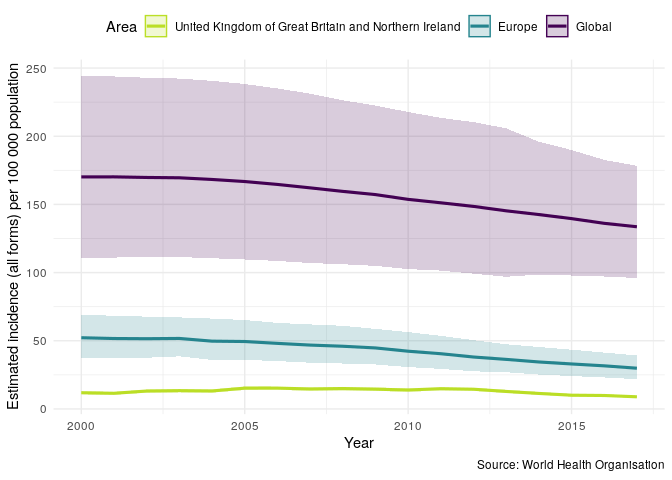
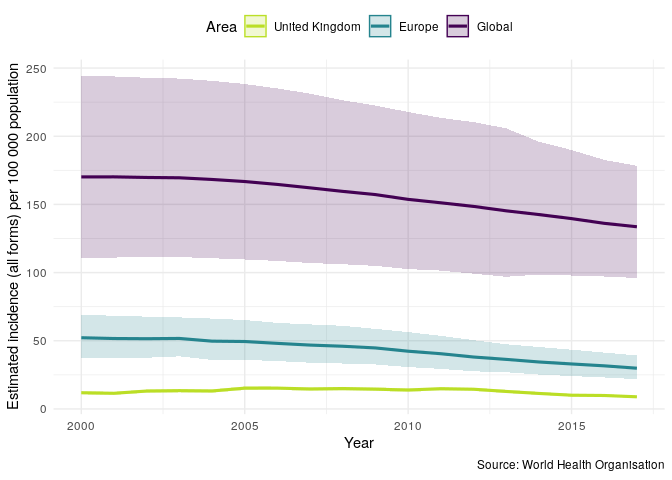
refreshed readme

Changed region(s): [[0.1562, 0.0312, 0.9062, 0.0938]]

diff --git a/README.md b/README.md
@@ -73,12 +73,12 @@ getTBinR::map_tb_burden(metric = "e_inc_100k")
 #>   c.quosures     rlang
 #>   print.quosures rlang
 #> Downloading data from: https://extranet.who.int/tme/generateCSV.asp?ds=estimates
-#> Saving data to: /tmp/RtmpGMpXAj/TB_burden.rds
+#> Saving data to: /tmp/RtmpWgNPW6/TB_burden.rds
 #> Downloading data from: https://extranet.who.int/tme/generateCSV.asp?ds=mdr_rr_estimates
-#> Saving data to: /tmp/RtmpGMpXAj/MDR_TB.rds
+#> Saving data to: /tmp/RtmpWgNPW6/MDR_TB.rds
 #> Joining TB burden data and MDR TB data.
 #> Downloading data from: https://extranet.who.int/tme/generateCSV.asp?ds=dictionary
-#> Saving data to: /tmp/RtmpGMpXAj/TB_data_dict.rds
+#> Saving data to: /tmp/RtmpWgNPW6/TB_data_dict.rds
 #> 1 results found for your variable search for e_inc_100k
 ```
 
@@ -92,10 +92,10 @@ getTBinR::plot_tb_burden_overview(metric = "e_inc_100k",
                                   countries = "United Kingdom",
                                   compare_to_region = TRUE,
                                   interactive = FALSE)
-#> Loading data from: /tmp/RtmpGMpXAj/TB_burden.rds
-#> Loading data from: /tmp/RtmpGMpXAj/MDR_TB.rds
+#> Loading data from: /tmp/RtmpWgNPW6/TB_burden.rds
+#> Loading data from: /tmp/RtmpWgNPW6/MDR_TB.rds
 #> Joining TB burden data and MDR TB data.
-#> Loading data from: /tmp/RtmpGMpXAj/TB_data_dict.rds
+#> Loading data from: /tmp/RtmpWgNPW6/TB_data_dict.rds
 #> 1 results found for your variable search for e_inc_100k
 ```
 
@@ -110,10 +110,10 @@ getTBinR::plot_tb_burden_overview(metric = "e_inc_100k",
                                   compare_to_region = TRUE,
                                   annual_change = TRUE,
                                   interactive = FALSE)
-#> Loading data from: /tmp/RtmpGMpXAj/TB_burden.rds
-#> Loading data from: /tmp/RtmpGMpXAj/MDR_TB.rds
+#> Loading data from: /tmp/RtmpWgNPW6/TB_burden.rds
+#> Loading data from: /tmp/RtmpWgNPW6/MDR_TB.rds
 #> Joining TB burden data and MDR TB data.
-#> Loading data from: /tmp/RtmpGMpXAj/TB_data_dict.rds
+#> Loading data from: /tmp/RtmpWgNPW6/TB_data_dict.rds
 #> 1 results found for your variable search for e_inc_100k
 ```
 
@@ -131,23 +131,23 @@ getTBinR::plot_tb_burden_summary(metric = "e_inc_num",
                                  compare_to_region = TRUE,
                                  compare_to_world = TRUE,
                                  interactive = FALSE)
-#> Loading data from: /tmp/RtmpGMpXAj/TB_data_dict.rds
+#> Loading data from: /tmp/RtmpWgNPW6/TB_data_dict.rds
 #> 1 results found for your variable search for e_inc_100k
 #> Extracting data for specified countries
-#> Loading data from: /tmp/RtmpGMpXAj/TB_burden.rds
-#> Loading data from: /tmp/RtmpGMpXAj/MDR_TB.rds
+#> Loading data from: /tmp/RtmpWgNPW6/TB_burden.rds
+#> Loading data from: /tmp/RtmpWgNPW6/MDR_TB.rds
 #> Joining TB burden data and MDR TB data.
-#> Loading data from: /tmp/RtmpGMpXAj/TB_data_dict.rds
+#> Loading data from: /tmp/RtmpWgNPW6/TB_data_dict.rds
 #> 1 results found for your variable search for e_inc_num
-#> Loading data from: /tmp/RtmpGMpXAj/TB_burden.rds
-#> Loading data from: /tmp/RtmpGMpXAj/MDR_TB.rds
+#> Loading data from: /tmp/RtmpWgNPW6/TB_burden.rds
+#> Loading data from: /tmp/RtmpWgNPW6/MDR_TB.rds
 #> Joining TB burden data and MDR TB data.
-#> Loading data from: /tmp/RtmpGMpXAj/TB_data_dict.rds
+#> Loading data from: /tmp/RtmpWgNPW6/TB_data_dict.rds
 #> 1 results found for your variable search for e_inc_num
-#> Loading data from: /tmp/RtmpGMpXAj/TB_burden.rds
-#> Loading data from: /tmp/RtmpGMpXAj/MDR_TB.rds
+#> Loading data from: /tmp/RtmpWgNPW6/TB_burden.rds
+#> Loading data from: /tmp/RtmpWgNPW6/MDR_TB.rds
 #> Joining TB burden data and MDR TB data.
-#> Loading data from: /tmp/RtmpGMpXAj/TB_data_dict.rds
+#> Loading data from: /tmp/RtmpWgNPW6/TB_data_dict.rds
 #> 1 results found for your variable search for e_inc_num
 ```
 
@@ -160,10 +160,10 @@ us to get a clear picture of trends in TB incidence rates in the UK.
 getTBinR::plot_tb_burden(metric = "e_inc_100k",
                          countries = "United Kingdom",
                          interactive = FALSE)
-#> Loading data from: /tmp/RtmpGMpXAj/TB_burden.rds
-#> Loading data from: /tmp/RtmpGMpXAj/MDR_TB.rds
+#> Loading data from: /tmp/RtmpWgNPW6/TB_burden.rds
+#> Loading data from: /tmp/RtmpWgNPW6/MDR_TB.rds
 #> Joining TB burden data and MDR TB data.
-#> Loading data from: /tmp/RtmpGMpXAj/TB_data_dict.rds
+#> Loading data from: /tmp/RtmpWgNPW6/TB_data_dict.rds
 #> 1 results found for your variable search for e_inc_100k
 ```
 
@@ -176,13 +176,13 @@ available data with the following,
 ``` r
 getTBinR::summarise_metric(metric = "e_inc_100k",
                            countries = "United Kingdom")
-#> Loading data from: /tmp/RtmpGMpXAj/TB_burden.rds
-#> Loading data from: /tmp/RtmpGMpXAj/MDR_TB.rds
+#> Loading data from: /tmp/RtmpWgNPW6/TB_burden.rds
+#> Loading data from: /tmp/RtmpWgNPW6/MDR_TB.rds
 #> Joining TB burden data and MDR TB data.
 #> # A tibble: 1 x 6
-#>   country                  year metric    world_rank region_rank avg_change
-#>   <chr>                   <int> <chr>          <int>       <int> <chr>     
-#> 1 United Kingdom of Grea…  2017 8.9 (8.1…        165          32 -4.9%
+#>   country         year metric          world_rank region_rank avg_change
+#>   <chr>          <int> <chr>                <int>       <int> <chr>     
+#> 1 United Kingdom  2017 8.9 (8.1 - 9.8)        165          32 -4.9%
 ```
 
 Or a more detailed dataset as follows,
@@ -195,18 +195,18 @@ getTBinR::summarise_tb_burden(metric = "e_inc_num",
                               compare_to_region = FALSE,
                               verbose = FALSE) 
 #> # A tibble: 126 x 5
-#>    area                            year e_inc_num e_inc_num_lo e_inc_num_hi
-#>    <fct>                          <int>     <dbl>        <dbl>        <dbl>
-#>  1 United Kingdom of Great Brita…  2000      11.9         10.7         13.1
-#>  2 United Kingdom of Great Brita…  2001      11.5         10.3         12.7
-#>  3 United Kingdom of Great Brita…  2002      13.1         11.8         14.3
-#>  4 United Kingdom of Great Brita…  2003      13.4         12.1         14.8
-#>  5 United Kingdom of Great Brita…  2004      13.2         11.9         14.5
-#>  6 United Kingdom of Great Brita…  2005      15.3         13.8         16.6
-#>  7 United Kingdom of Great Brita…  2006      15.3         13.8         16.4
-#>  8 United Kingdom of Great Brita…  2007      14.7         13.2         16.1
-#>  9 United Kingdom of Great Brita…  2008      15.0         13.5         16.1
-#> 10 United Kingdom of Great Brita…  2009      14.5         13.1         15.9
+#>    area            year e_inc_num e_inc_num_lo e_inc_num_hi
+#>    <fct>          <int>     <dbl>        <dbl>        <dbl>
+#>  1 United Kingdom  2000      11.9         10.7         13.1
+#>  2 United Kingdom  2001      11.5         10.3         12.7
+#>  3 United Kingdom  2002      13.1         11.8         14.3
+#>  4 United Kingdom  2003      13.4         12.1         14.8
+#>  5 United Kingdom  2004      13.2         11.9         14.5
+#>  6 United Kingdom  2005      15.3         13.8         16.6
+#>  7 United Kingdom  2006      15.3         13.8         16.4
+#>  8 United Kingdom  2007      14.7         13.2         16.1
+#>  9 United Kingdom  2008      15.0         13.5         16.1
+#> 10 United Kingdom  2009      14.5         13.1         15.9
 #> # … with 116 more rows
 ```
 
